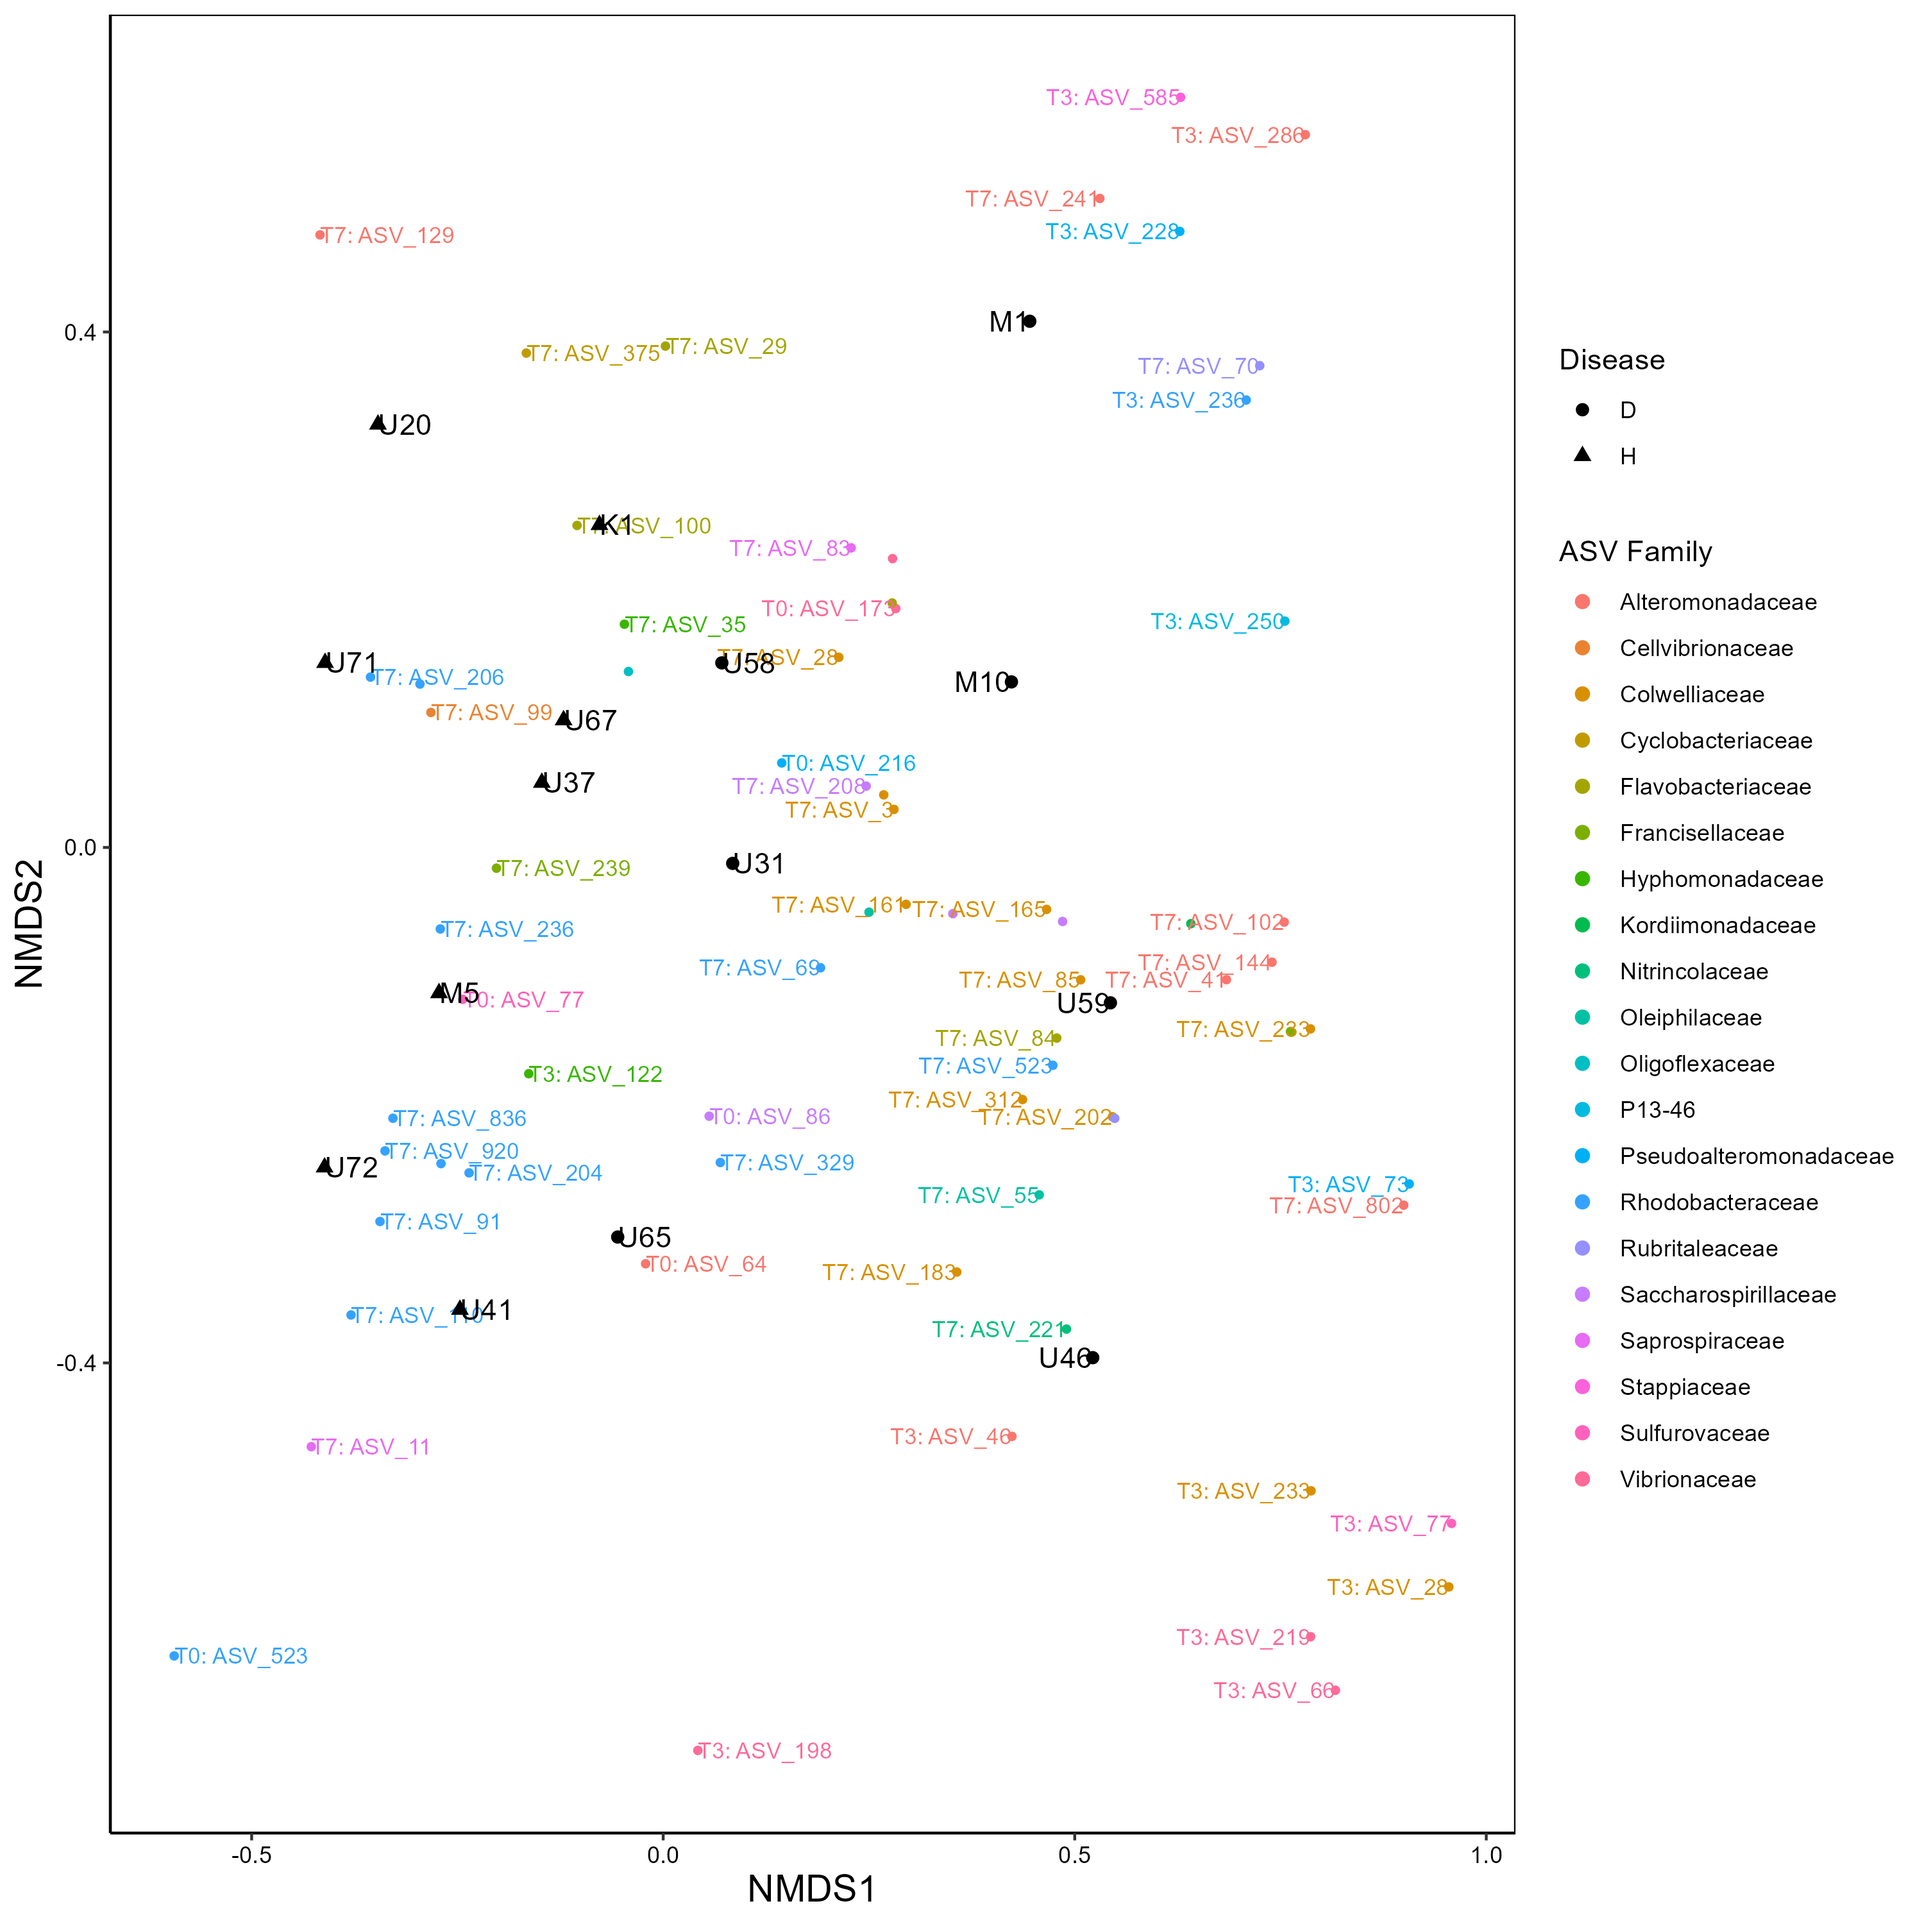
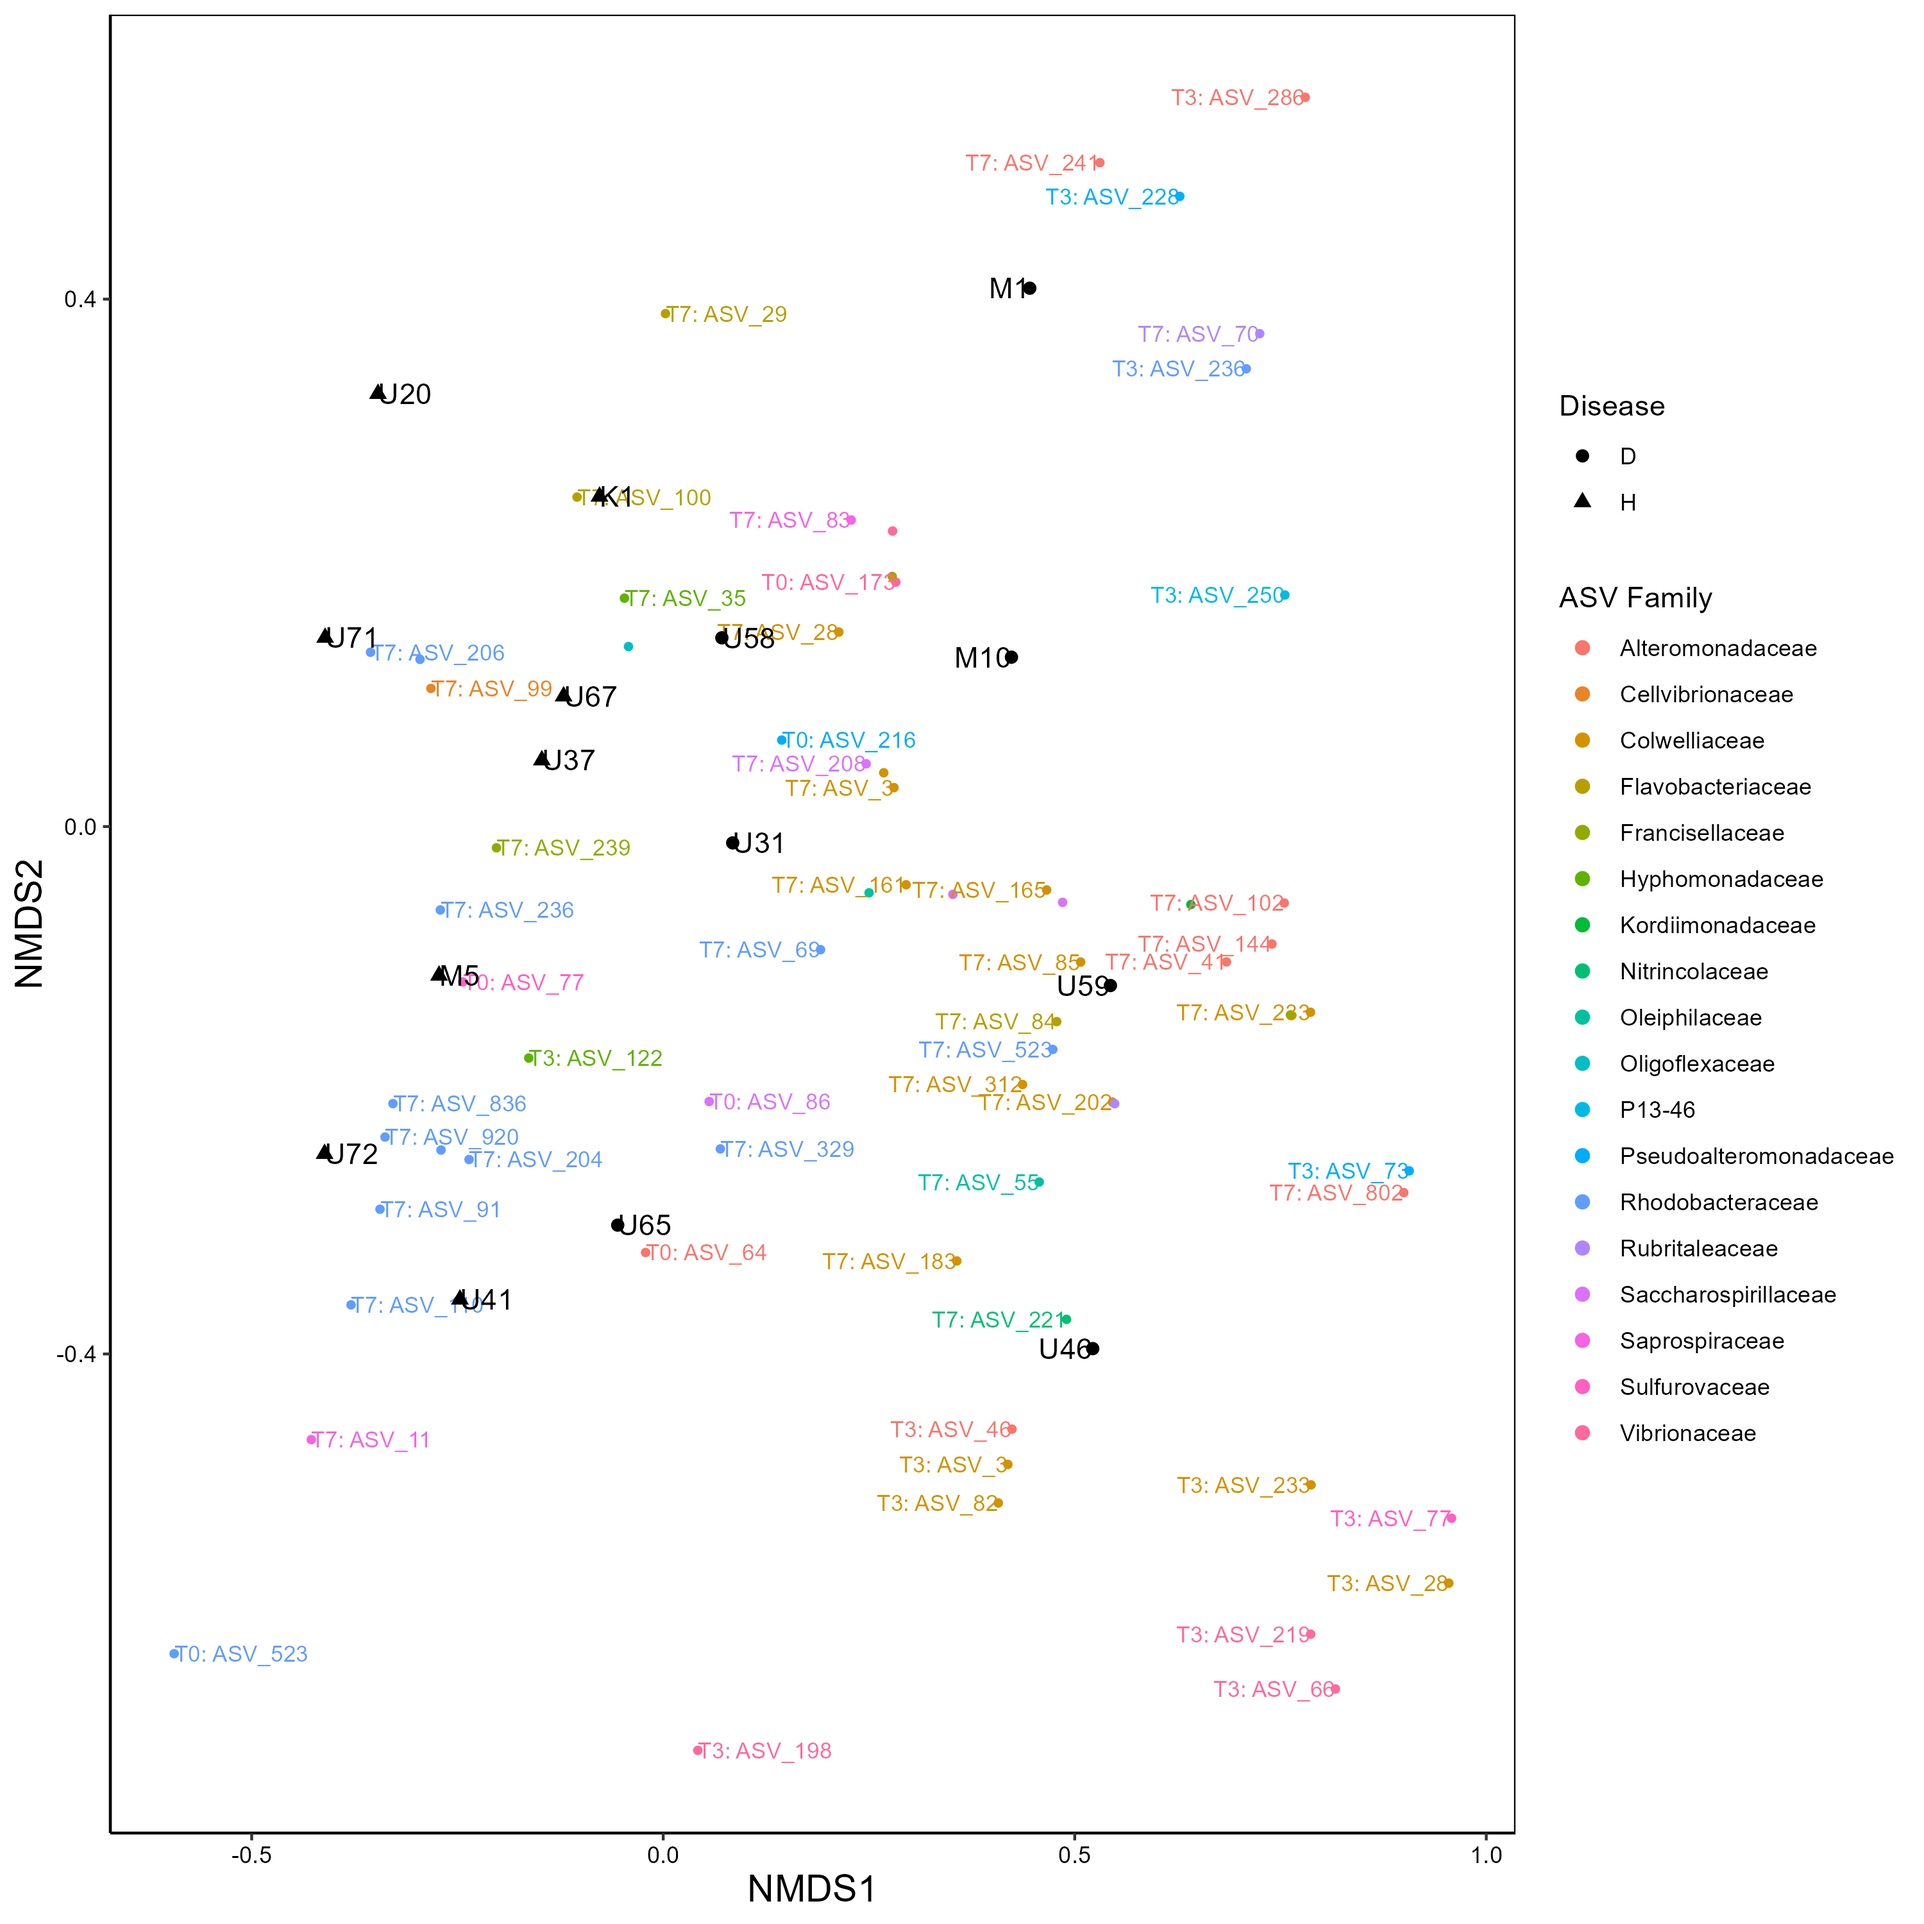
update rf

diff --git a/random_forest_analysis.md b/random_forest_analysis.md
@@ -2,7 +2,7 @@ Using the same filtered ASV dataset as used in the primary linear mixed model an
 
 In order to perform this analysis I reduced the dataset to include only 15 coral genotypes which had data across all timepoints in the diseased treatment.
 
-First I used an NMDS to visualize differences between bacterial communities.
+First I used an NMDS to visualize differences between bacterial communities. ASVs included are only those significantly associated with NMDS1 and/or NMDS2
 ![image info](Figures/nmds_diseaseExposed_genotype_asv.png)
 
 The data was then split into training (4D, 5H) and testing (3D, 3H) datasets. Data was preprocessed by first downsampling to have the same number of diseased and healthy genotypes, then ASVs containing 0 variance across samples were removed and all ASV counts were log base2 transformed prior to mean/sd normalization.
@@ -16,4 +16,4 @@ The top 12 most important ASVs, based on permutation importance, in predicting f
 Each of the top 12 overall most important ASVs was then plotted through time to see how the ASV count changes across time and all treatments.
 ![image info](Figures/rf_important_asv_time.png)
 
-For each genotype exposed to the disease I created a SHAP plot to see 
+For each genotype exposed to the disease I created a SHAP plot to see
